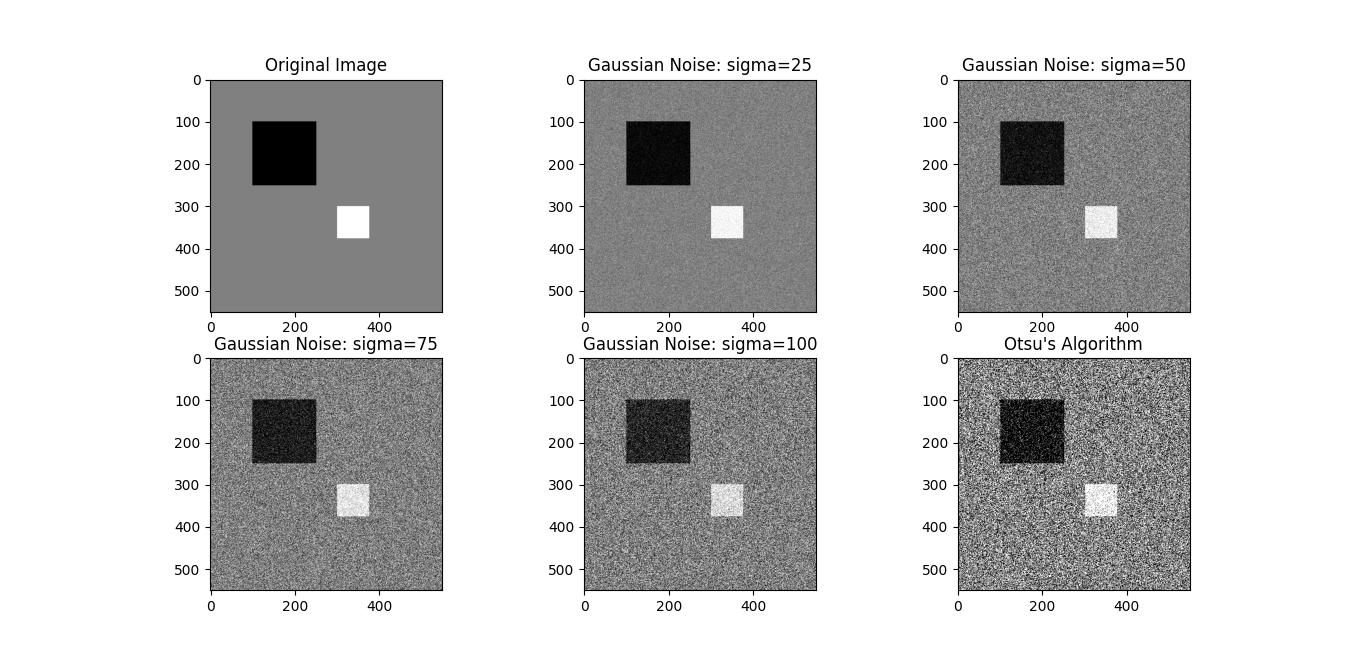
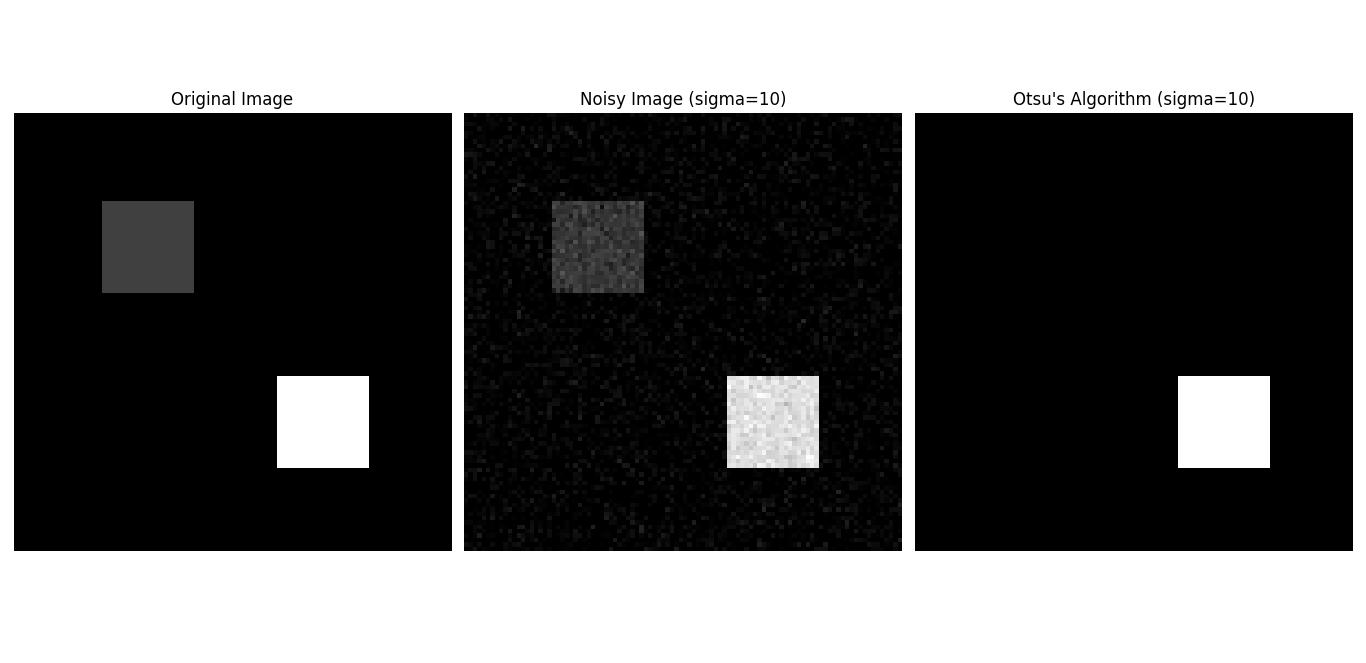
Answers for Q1

diff --git a/Q1/Q1.py b/Q1/Q1.py
@@ -2,78 +2,69 @@ import cv2
 import numpy as np
 import matplotlib.pyplot as plt
 
-# Create a blank image with a gray background
-image = np.full((550, 550), 128, dtype=np.uint8)
+# Define image dimensions
+height, width = 100, 100
 
-# Define pixel values for the objects
-black_pixel = 0
-white_pixel = 255
+# Create a blank image with a background and two objects
+image = np.zeros((height, width), dtype=np.uint8)
 
-# Draw the original image objects
-cv2.rectangle(image, (100, 100), (250, 250), black_pixel, -1)  # Black object
-cv2.rectangle(image, (300, 300), (375, 375), white_pixel, -1)  # White object
+# Define pixel values for the objects and background
+object1_pixel = 50
+object2_pixel = 200
+background_pixel = 255
+
+# Draw the objects
+cv2.rectangle(image, (20, 20), (40, 40), object1_pixel, -1)  # Object 1
+cv2.rectangle(image, (60, 60), (80, 80), object2_pixel, -1)  # Object 2
+
+# Display the original image
+plt.imshow(image, cmap='gray')
+plt.title('Original Image')
+plt.axis('off')
+plt.show()
 
 
 # Adding Gaussian noise to the original image
 def add_gaussian_noise(img, mean, sigma):
-    if len(img.shape) == 2:
-        h, w = img.shape  # h-height, w-width for grayscale images
-
-        '''
-        Generate Gaussian noise with a specified mean (mean) and standard deviation (sigma) 
-        using NumPy's random normal function
-        '''
-        noise = np.random.normal(mean, sigma, (h, w))  # sigma represents the variance
-
-        '''
-        Add the noise to the original image and then clips the resulting pixel values to be within the range [0, 255]. 
-        This ensures that no pixel values exceed the valid range for uint8 images.
-        '''
-        noisy_img = np.clip(img + noise, 0, 255).astype(np.uint8)
-
-    else:
-        h, w, c = img.shape  # h-height, w-width, c-number of channels used for RGB images
-        noise = np.random.normal(mean, sigma, (h, w, c))
-        noisy_img = np.clip(img + noise, 0, 255).astype(np.uint8)
+    h, w = img.shape  # Image dimensions
+    noise = np.random.normal(mean, sigma, (h, w))  # Generate Gaussian noise
+    noisy_img = np.clip(img + noise, 0, 255).astype(np.uint8)  # Add noise to the image
     return noisy_img
 
 
-# Apply Gaussian noise with different parameters
-noisy_image_1 = add_gaussian_noise(image, 0, 25)
-noisy_image_2 = add_gaussian_noise(image, 0, 50)
-noisy_image_3 = add_gaussian_noise(image, 0, 75)
-noisy_image_4 = add_gaussian_noise(image, 0, 100)
+# Apply Gaussian noise with mean=0 and different sigma values
+noisy_image_sigma_10 = add_gaussian_noise(image, 0, 10)
+noisy_image_sigma_20 = add_gaussian_noise(image, 0, 20)
 
 
-# Apply Otsu's thresholding algorithm
+# Define Otsu's thresholding algorithm
 def otsu_threshold(img):
-    _, otsu_threshold_image = cv2.threshold(img, 120, 255, cv2.THRESH_BINARY + cv2.THRESH_OTSU)
+    _, otsu_threshold_image = cv2.threshold(img, 0, 255, cv2.THRESH_BINARY + cv2.THRESH_OTSU)
     return otsu_threshold_image
 
 
-# Call the otsu_threshold function and assign its value to otsu_image variable
-otsu_image = otsu_threshold(noisy_image_4)
+# Apply Otsu's algorithm to noisy images with sigma=10
+otsu_image_sigma_10 = otsu_threshold(noisy_image_sigma_10)
+otsu_image_sigma_20 = otsu_threshold(noisy_image_sigma_20)
 
 # Plotting the images
-fig, axs = plt.subplots(2, 3, figsize=(15, 10))
+fig, axs = plt.subplots(1, 3, figsize=(15, 5))
 
 # Original image
-axs[0, 0].imshow(image, cmap='gray')
-axs[0, 0].set_title('Original Image')
+axs[0].imshow(image, cmap='gray')
+axs[0].set_title('Original Image')
+axs[0].axis('off')
 
-# Noisy images for different sigma values
-axs[0, 1].imshow(noisy_image_1, cmap='gray')
-axs[0, 1].set_title('Gaussian Noise: sigma=25')
-axs[0, 2].imshow(noisy_image_2, cmap='gray')
-axs[0, 2].set_title('Gaussian Noise: sigma=50')
-axs[1, 0].imshow(noisy_image_3, cmap='gray')
-axs[1, 0].set_title('Gaussian Noise: sigma=75')
-axs[1, 1].imshow(noisy_image_4, cmap='gray')
-axs[1, 1].set_title('Gaussian Noise: sigma=100')
+# Noisy image with sigma=10
+axs[1].imshow(noisy_image_sigma_10, cmap='gray')
+axs[1].set_title('Noisy Image (sigma=10)')
+axs[1].axis('off')
 
-# Otsu's image
-axs[1, 2].imshow(otsu_image, cmap='gray')
-axs[1, 2].set_title("Otsu's Algorithm")
+# Otsu's image with sigma=10
+axs[2].imshow(otsu_image_sigma_10, cmap='gray')
+axs[2].set_title("Otsu's Algorithm (sigma=10)")
+axs[2].axis('off')
 
-# Plot all the images
+# Show the plots
+plt.tight_layout()
 plt.show()
